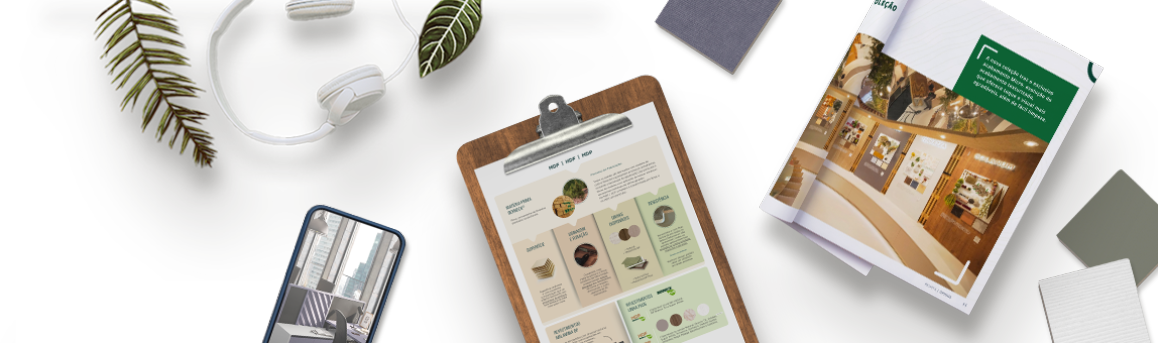
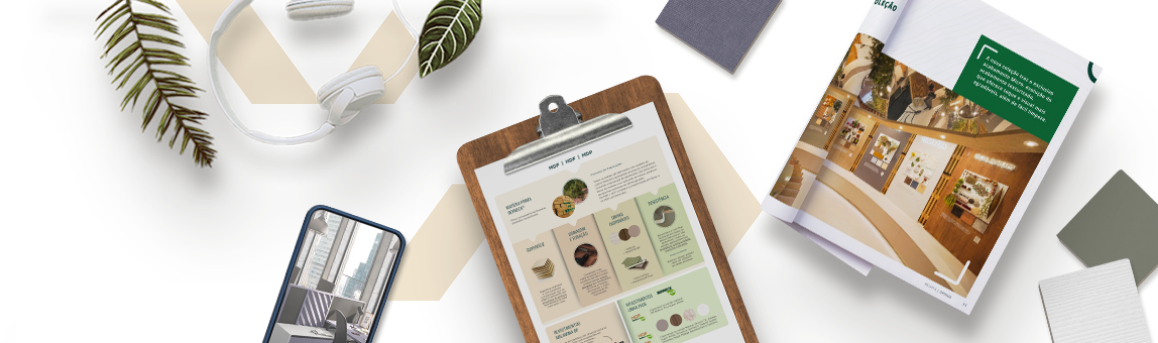
minors updates

Changed region(s): [[0.1554, 0.0, 0.3731, 0.3207], [0.5596, 0.2624, 0.6528, 0.758], [0.3109, 0.5248, 0.4352, 0.8746]]

diff --git a/src/views/Compromise/Compromise.tsx b/src/views/Compromise/Compromise.tsx
@@ -610,11 +610,11 @@ export const Compromise = ({ page_content }: CompromiseViewProps) => {
                   direction="column"
                   alignItems="center"
                   padding={{ base: '5%', sm: '5%', lg: '5%', xl: '5%' }}
-                  backgroundImage="/assets/imgs/fundo_relatorio.svg"
-                  backgroundPosition="center"
-                  backgroundRepeat="no-repeat"
+                  // backgroundImage="/assets/imgs/fundo_relatorio.svg"
+                  // backgroundPosition="center"
+                  // backgroundRepeat="no-repeat"
                 >
-                  <Text
+                  {/* <Text
                     fontFamily="body"
                     color="green.900"
                     textAlign="center"
@@ -643,7 +643,7 @@ export const Compromise = ({ page_content }: CompromiseViewProps) => {
                     >
                       Relatório de Sustentabilidade
                     </Text>
-                  </Button>
+                  </Button> */}
                 </Flex>
               </Box>
             </Flex>
@@ -1215,7 +1215,7 @@ export const Compromise = ({ page_content }: CompromiseViewProps) => {
         zIndex="base"
         overflowY="hidden"
         overflowX="hidden"
-        bg="green.100"
+        bg="green.1000"
         backgroundImage="/assets/imgs/grafismos_fundo2.png"
         backgroundPosition="-900px top"
         backgroundRepeat="no-repeat"
@@ -1254,7 +1254,7 @@ export const Compromise = ({ page_content }: CompromiseViewProps) => {
             {/* BOX 1 */}
             <Box flex="1">
               <CompletedTitle
-                titleString="Relatório ESG – BERNECK®"
+                titleString="ESG"
                 textAlign={{ base: 'left', sm: 'left', lg: 'left', xl: 'left' }}
                 alignSelf={{
                   base: 'flex-start',
@@ -1268,7 +1268,7 @@ export const Compromise = ({ page_content }: CompromiseViewProps) => {
               </Text>
             </Box>
             {/* BOX 2 */}
-            <Box
+            {/* <Box
               margin={{
                 base: '5% 0% 5% 0%',
                 sm: '5% 0% 5% 0%',
@@ -1296,7 +1296,7 @@ export const Compromise = ({ page_content }: CompromiseViewProps) => {
                   iconInitialColor2="#004934"
                 />
               </Link>
-            </Box>
+            </Box> */}
           </Box>
         </Flex>
       </Flex>

diff --git a/src/views/Certification/Certification.tsx b/src/views/Certification/Certification.tsx
@@ -58,7 +58,7 @@ export const Certification = (props: CertificationViewProps) => (
       ]}
     />
 
-    <PageSession
+    {/* <PageSession
       data={{
         imageUrl: 'url(/assets/imgs/escurecida.png)',
         title: props.page_content.page_title,
@@ -70,7 +70,69 @@ export const Certification = (props: CertificationViewProps) => (
       viewGrafismo="flex"
       GrafismLeftStroke="#E0CBA5"
       GrafismLeftOpacity="0.2"
-    />
+    /> */}
+    {/* Downloads Header */}
+    <Flex
+        flexDir="column"
+        width="100%"
+        bg="brown.100"
+        paddingX="5%"
+        paddingY={{ base: '20px', md: '0' }}
+        height={{ base: 'auto', md: '25vw' }}
+        maxHeight="298px"
+        position="relative"
+        justifyContent="center"
+        overflow="hidden"
+        alignItems={{ base: 'center', md: 'flex-start' }}
+      >
+        <Box display={{ base: 'none', md: 'block' }}>
+          <CompletedTitle
+            titleString= {props.page_content.page_title}
+            textAlign="left"
+            alignSelf="left"
+            zIndex="docked"
+          />
+        </Box>
+
+        <Box display={{ base: 'block', md: 'none' }}>
+          <CompletedTitle
+            titleString= {props.page_content.page_title}
+            textAlign="center"
+            alignSelf="center"
+            zIndex="docked"
+          />
+        </Box>
+        <Text
+          variant={'body' as any}
+          w={{ base: '100%', md: '50%' }}
+          marginTop={{ base: '1%', xl: '3%' }}
+          color="brown.300"
+        >
+          {props.page_content.header_text}
+        </Text>
+        <Box
+          h="100%"
+          position={'absolute'}
+          top="0"
+          left={{ base: '55%', md: '60%' }}
+          overflow="hidden"
+          // bg="red"
+        >
+          <Box 
+            w="100vw" 
+            h="100%" 
+            justifyContent="left"
+          >
+            <Image
+              src="/img/banner_certificacoes.png"
+              width={'auto'}
+              height={'100%'}
+              display={{ base: 'none', md: 'block' }}
+            />
+          </Box>
+        </Box>
+      </Flex>
+      {/* End Downloads Header */}
 
     {/* INICIO Florestas Certificadas */}
     <Flex

diff --git a/src/views/Canal-BNK/Downloads/DownloadsView.tsx b/src/views/Canal-BNK/Downloads/DownloadsView.tsx
@@ -91,6 +91,7 @@ export const DownlodasView = ({ items }: DownloadsViewProps) => {
         </Box>
       </Flex>
       {/* End Downloads Header */}
+      
       {/* Start Downloads sections */}
       <Flex p="5%" w="100%" bg="white.100" flexDir="column">
         {items.map((i, j) => {

diff --git a/src/theme/variants/button.ts b/src/theme/variants/button.ts
@@ -17,7 +17,7 @@ export const Button = {
   variants: {
     base: {
       color: 'white',
-      bg: 'green.500',
+      bg: 'green.600',
       _hover: {
         bg: 'green.700'
       }
